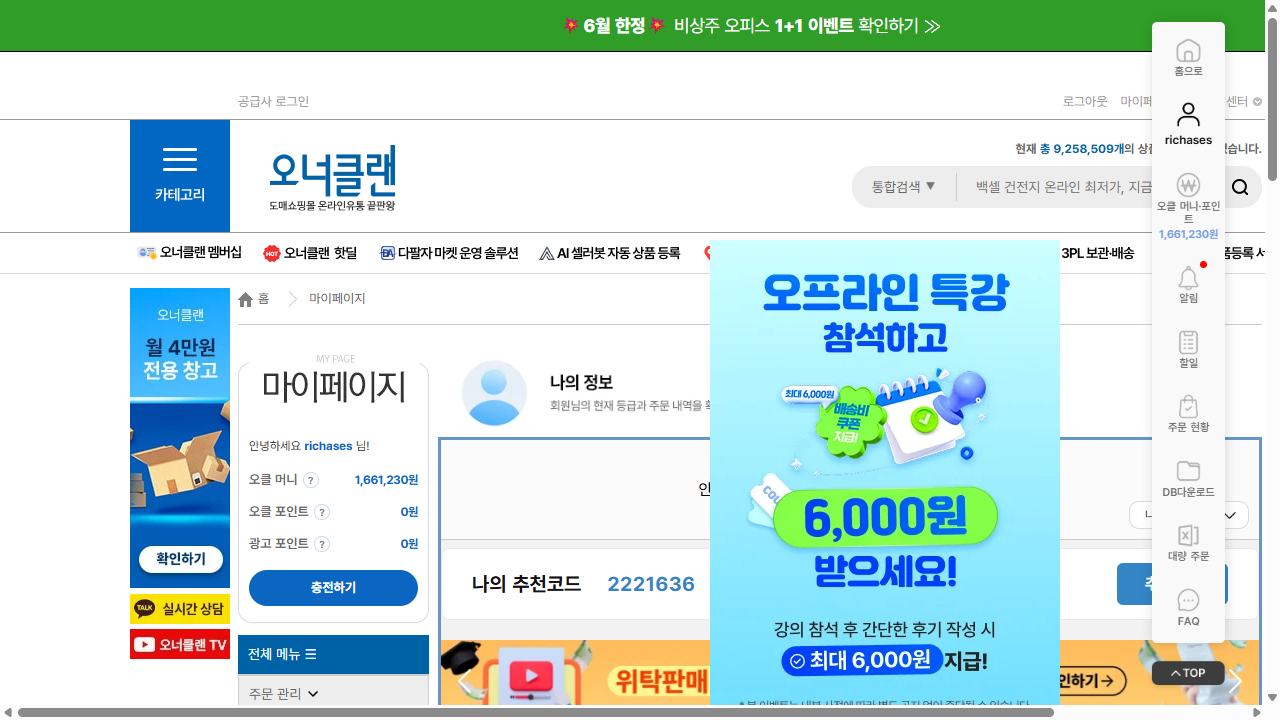
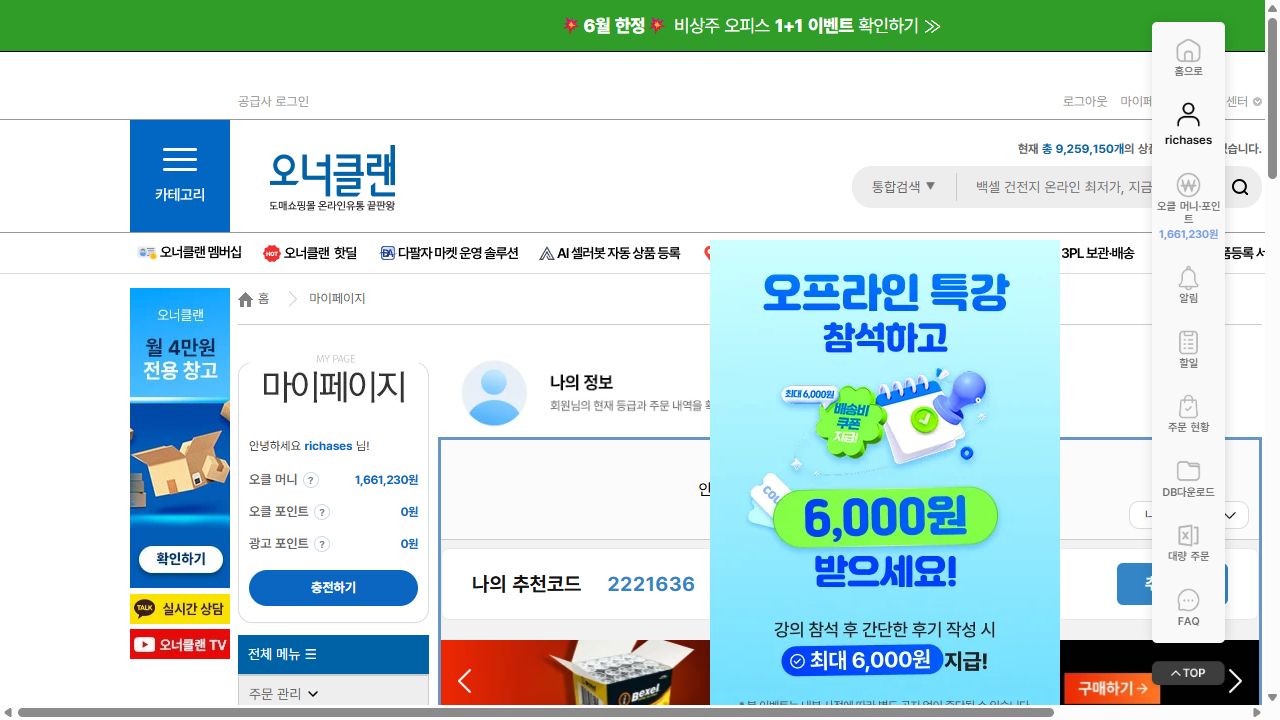
젠트 매입금 작업 추가완료

Changed region(s): [[0.3438, 0.8861, 0.5625, 0.9778], [0.8125, 0.8861, 1.0, 0.9778], [0.7812, 0.1833, 0.875, 0.2139]]

diff --git a/app/static/app.js b/app/static/app.js
@@ -162,7 +162,7 @@ document.getElementById('check-all').addEventListener('change', (e) => {
 // ── 수집 시작 ────────────────────────────────────
 document.getElementById('btn-collect').addEventListener('click', async () => {
     if (!rangeStart || !rangeEnd) {
-        appendLog('날짜 범위를 선택해주세요 (시작일 + 종료일)');
+        alert('수집 기간을 선택해주세요.\n달력에서 시작일과 종료일을 클릭하세요.');
         return;
     }
 

diff --git a/dome_site/zentrade/login.py b/dome_site/zentrade/login.py
@@ -1,0 +1,97 @@
+"""젠트레이드 로그인."""
+
+from __future__ import annotations
+
+import asyncio
+import sys
+from pathlib import Path
+
+import openpyxl
+
+from .session import MODE, close_session, get_page
+
+ROOT = Path(__file__).resolve().parents[2]
+ACCOUNT_XLSX = ROOT / "계정정보.xlsx"
+
+LOGIN_URL = "https://www.zentrade.co.kr/shop/main/index.php"
+SITE_LABEL = "젠트"
+
+
+def load_credentials(site_label: str = SITE_LABEL) -> tuple[str, str]:
+    """계정정보.xlsx에서 사이트의 (id, pw)를 반환한다."""
+    wb = openpyxl.load_workbook(ACCOUNT_XLSX, data_only=True)
+    ws = wb["Sheet1"]
+    for row in ws.iter_rows(values_only=True):
+        if row and row[0] == site_label:
+            user, pw = row[1], row[2]
+            if not user or not pw:
+                raise RuntimeError(f"[{site_label}] 아이디/비밀번호가 비어있음")
+            return str(user), str(pw)
+    raise RuntimeError(f"[{site_label}] 행을 찾을 수 없음")
+
+
+async def login() -> bool:
+    """젠트레이드에 로그인한다. 성공 여부 반환."""
+    user, pw = load_credentials()
+    page = await get_page()
+
+    await page.goto(LOGIN_URL, wait_until="domcontentloaded")
+
+    # 팝업창 모두 닫기
+    import asyncio as _asyncio
+    await _asyncio.sleep(1)
+    await page.evaluate("""
+        // 입금자 찾기 팝업
+        var el = document.getElementById('blnCookie_specialdays');
+        if (el) el.style.display = 'none';
+        // 마이페이지 레이어
+        var el2 = document.getElementById('MypageLayerBox');
+        if (el2) el2.style.display = 'none';
+    """)
+    # 혹시 남은 팝업 닫기 버튼 클릭
+    for sel in ["img[src*='popup_bu_close']", "img[src*='close.gif']"]:
+        try:
+            buttons = await page.locator(sel).all()
+            for btn in buttons:
+                if await btn.is_visible():
+                    await btn.click()
+                    await _asyncio.sleep(0.3)
+        except Exception:
+            pass
+    await _asyncio.sleep(0.3)
+
+    await page.fill("input[name='m_id']", user)
+    await page.fill("input[name='password']", pw)
+    async with page.expect_navigation(wait_until="domcontentloaded"):
+        await page.locator("input[type='image'][src*='btn_login']").click()
+
+    # login_ok.php 로 이동한 뒤 메인으로 리다이렉트될 수 있으므로 잠시 대기
+    await page.wait_for_load_state("domcontentloaded")
+    url = page.url
+    title = await page.title()
+    print(f"[{SITE_LABEL}] 로그인 후 URL  : {url}")
+    print(f"[{SITE_LABEL}] 로그인 후 TITLE: {title}")
+    # login_ok.php = 로그인 성공 처리 페이지, loginform = 로그인 실패
+    return "loginform" not in url.lower()
+
+
+async def _standalone() -> int:
+    """단독 실행 진입점."""
+    try:
+        ok = await login()
+        if ok:
+            print(f"\n[{SITE_LABEL}] 로그인 성공")
+        else:
+            print(f"\n[{SITE_LABEL}] 로그인 실패")
+
+        if MODE == "debug":
+            print("\n[debug] 브라우저 창을 확인하세요. Enter 키를 누르면 종료합니다...")
+            await asyncio.to_thread(input)
+
+        return 0 if ok else 1
+    finally:
+        await close_session()
+
+
+if __name__ == "__main__":
+    sys.exit(asyncio.run(_standalone()))

diff --git a/dome_site/zentrade/orders.py b/dome_site/zentrade/orders.py
@@ -1,0 +1,72 @@
+"""젠트레이드 월별 매출통계 조회 및 엑셀 저장."""
+
+from __future__ import annotations
+
+import asyncio
+from datetime import date
+from pathlib import Path
+
+import pandas as pd
+
+from .session import get_page
+
+# 매출통계 테이블이 iframe 안에 있으므로 iframe src를 직접 호출
+STATS_IFRAME_URL = "https://www.zentrade.co.kr/shop/mypage/log_stat.sales.month.php"
+DOWNLOAD_DIR = Path(__file__).resolve().parent / "downloads"
+
+
+async def fetch_orders(start_date: str, end_date: str) -> Path:
+    """월별 매출통계 iframe 페이지에서 테이블을 스크래핑하여 엑셀로 저장한다."""
+    page = await get_page()
+
+    # start_date/end_date에서 년월 추출
+    sy, sm = start_date[:4], start_date[5:7]
+    ey, em = end_date[:4], end_date[5:7]
+    url = f"{STATS_IFRAME_URL}?sy={sy}&sm={sm}&ey={ey}&em={em}"
+
+    # 1. iframe 내부 페이지 직접 이동
+    await page.goto(url, wait_until="domcontentloaded")
+    await asyncio.sleep(2)
+
+    # 2. 테이블 대기 (최대 30초, 3회 재시도)
+    for attempt in range(3):
+        try:
+            await page.wait_for_selector("table.statistics-list", timeout=30000)
+            break
+        except Exception:
+            print(f"[젠트] 테이블 로딩 재시도 ({attempt + 1}/3)")
+            await page.reload(wait_until="domcontentloaded")
+            await asyncio.sleep(2)
+
+    # 3. 데이터 행 스크래핑 (헤더행, rndline 구분선 제외)
+    rows = await page.locator("table.statistics-list tbody tr").all()
+    table_data = []
+    for row in rows:
+        # 구분선 행 건너뛰기
+        if await row.locator("td.rndline").count() > 0:
+            continue
+        cells = await row.locator("td").all()
+        if not cells:
+            continue
+        cell_texts = []
+        for cell in cells:
+            text = (await cell.inner_text()).strip()
+            cell_texts.append(text)
+        if cell_texts and len(cell_texts) >= 2:
+            table_data.append(cell_texts)
+
+    if not table_data:
+        raise RuntimeError("[젠트] 매출통계 테이블에서 데이터를 찾을 수 없습니다")
+
+    # 4. DataFrame 생성
+    columns = ["날짜", "매출금액", "주문건수", "전달대비 매출증감", "전달대비 주문건수", "상품금액", "배송비"]
+    df = pd.DataFrame(table_data, columns=columns[:len(table_data[0])])
+    print(f"[젠트] 매출통계 테이블: {len(df)}행 조회됨")
+
+    # 5. 엑셀 저장
+    DOWNLOAD_DIR.mkdir(exist_ok=True)
+    filename = date.today().strftime("%y%m%d") + "_젠트_매입금.xlsx"
+    dest = DOWNLOAD_DIR / filename
+    df.to_excel(dest, index=False)
+    print(f"[젠트] 엑셀 저장 완료: {dest}")
+    return dest

diff --git a/dome_site/zentrade/session.py b/dome_site/zentrade/session.py
@@ -1,0 +1,61 @@
+"""젠트레이드 Playwright 세션 관리.
+
+같은 도매처(젠트레이드) 안의 모든 오퍼레이션은 이 모듈에 보관된 단일 브라우저 세션을 공유한다.
+세션을 중간에 닫고 다시 열지 않는다 (로그인 쿠키 유실 방지).
+다른 도매처로 전환할 때만 `close_session()` 을 호출한다.
+"""
+
+from __future__ import annotations
+
+from typing import Any
+
+from playwright.async_api import Browser, BrowserContext, Page, Playwright, async_playwright
+
+# "debug" = 브라우저 창 표시, "release" = headless
+MODE = "debug"
+
+_USER_AGENT = (
+    "Mozilla/5.0 (Windows NT 10.0; Win64; x64) "
+    "AppleWebKit/537.36 (KHTML, like Gecko) "
+    "Chrome/124.0.0.0 Safari/537.36"
+)
+
+_state: dict[str, Any] = {
+    "playwright": None,
+    "browser": None,
+    "context": None,
+    "page": None,
+}
+
+
+async def open_session() -> Page:
+    """브라우저 세션을 시작하고 Page를 반환한다. 이미 열려있으면 기존 Page 반환."""
+    page: Page | None = _state["page"]
+    if page is not None:
+        return page
+
+    pw: Playwright = await async_playwright().start()
+    browser: Browser = await pw.chromium.launch(headless=(MODE == "release"))
+    context: BrowserContext = await browser.new_context(user_agent=_USER_AGENT)
+    new_page: Page = await context.new_page()
+    _state.update(playwright=pw, browser=browser, context=context, page=new_page)
+    return new_page
+
+
+async def get_page() -> Page:
+    """살아있는 Page를 반환한다. 세션이 없으면 자동으로 새로 연다."""
+    page: Page | None = _state["page"]
+    if page is None:
+        return await open_session()
+    return page
+
+
+async def close_session() -> None:
+    """세션 종료. 다른 도매처로 전환할 때만 호출한다."""
+    browser: Browser | None = _state["browser"]
+    pw: Playwright | None = _state["playwright"]
+    if browser is not None:
+        await browser.close()
+    if pw is not None:
+        await pw.stop()
+    _state.update(playwright=None, browser=None, context=None, page=None)

diff --git a/dome_site/zentrade/summarize.py b/dome_site/zentrade/summarize.py
@@ -1,0 +1,59 @@
+"""젠트레이드 매입금 합산 → 도매_매입금.xlsx 에 기록."""
+
+from __future__ import annotations
+
+from pathlib import Path
+
+import pandas as pd
+
+DOWNLOADS_DIR = Path(__file__).resolve().parent / "downloads"
+SUMMARY_XLSX = Path(__file__).resolve().parents[1] / "도매_매입금.xlsx"
+
+
+def summarize_purchase(start_date: str) -> int:
+    """최신 엑셀에서 해당 월 매출금액을 찾아 도매_매입금.xlsx에 기록한다. 매입금(원) 반환."""
+    files = sorted(
+        [f for f in DOWNLOADS_DIR.glob("*.xlsx") if not f.name.startswith("~")],
+        key=lambda f: f.stat().st_mtime,
+        reverse=True,
+    )
+    if not files:
+        raise FileNotFoundError("다운로드된 엑셀 파일이 없습니다")
+
+    df = pd.read_excel(files[0])
+
+    # start_date에서 대상 월 추출 ("2026-05-01" → "2026-05")
+    target = start_date[:7]  # "2026-05"
+    yy, mm = start_date[2:4], start_date[5:7]
+    month_label = f"{yy}년{mm}월"
+
+    # 날짜 컬럼에서 해당 월 행 찾기
+    date_col = df.columns[0]
+    amount_col = df.columns[1]  # 매출금액
+
+    total = 0
+    for idx, val in df[date_col].items():
+        if target in str(val):
+            raw = str(df.loc[idx, amount_col]).replace(",", "").replace(" ", "")
+            total = int(raw)
+            break
+
+    if total == 0:
+        print(f"[젠트] 해당 월({target}) 데이터를 찾지 못했습니다")
+
+    row = {"몇월": month_label, "도매사이트": "젠트", "매입금": total}
+
+    if SUMMARY_XLSX.exists():
+        existing = pd.read_excel(SUMMARY_XLSX)
+        mask = (existing["몇월"] == month_label) & (existing["도매사이트"] == "젠트")
+        if mask.any():
+            existing.loc[mask, "매입금"] = total
+            result = existing
+        else:
+            result = pd.concat([existing, pd.DataFrame([row])], ignore_index=True)
+    else:
+        result = pd.DataFrame([row])
+
+    result.to_excel(SUMMARY_XLSX, index=False)
+    print(f"[젠트] {month_label} 매입금: {total:,}원 → {SUMMARY_XLSX}")
+    return total

diff --git a/dome_site/zentrade/main.py b/dome_site/zentrade/main.py
@@ -1,0 +1,48 @@
+"""젠트레이드 전체 흐름: 로그인 → 월별 매출통계 조회 → 엑셀 저장 → 매입금 합산."""
+
+from __future__ import annotations
+
+import asyncio
+import calendar
+import os
+import sys
+
+from .login import login
+from .orders import fetch_orders
+from .session import MODE, close_session
+from .summarize import summarize_purchase
+
+
+async def run(year: int, month: int) -> int:
+    """젠트레이드 매입금 집계 전체 실행."""
+    start = f"{year}-{month:02d}-01"
+    last_day = calendar.monthrange(year, month)[1]
+    end = f"{year}-{month:02d}-{last_day:02d}"
+
+    try:
+        ok = await login()
+        if not ok:
+            print("[젠트] 로그인 실패")
+            return 1
+
+        dest = await fetch_orders(start, end)
+        print(f"\n[젠트] 저장 경로: {dest}")
+
+        summarize_purchase(start)
+
+        if MODE == "debug" and not os.environ.get("WEBUI"):
+            print("\n[debug] 브라우저 창을 확인하세요. Enter 키를 누르면 종료합니다...")
+            await asyncio.to_thread(input)
+
+        return 0
+    except Exception as e:
+        print(f"\n[젠트] 오류: {e}")
+        return 1
+    finally:
+        await close_session()
+
+
+if __name__ == "__main__":
+    _year = int(sys.argv[1]) if len(sys.argv) > 1 else 2026
+    _month = int(sys.argv[2]) if len(sys.argv) > 2 else 5
+    sys.exit(asyncio.run(run(_year, _month)))